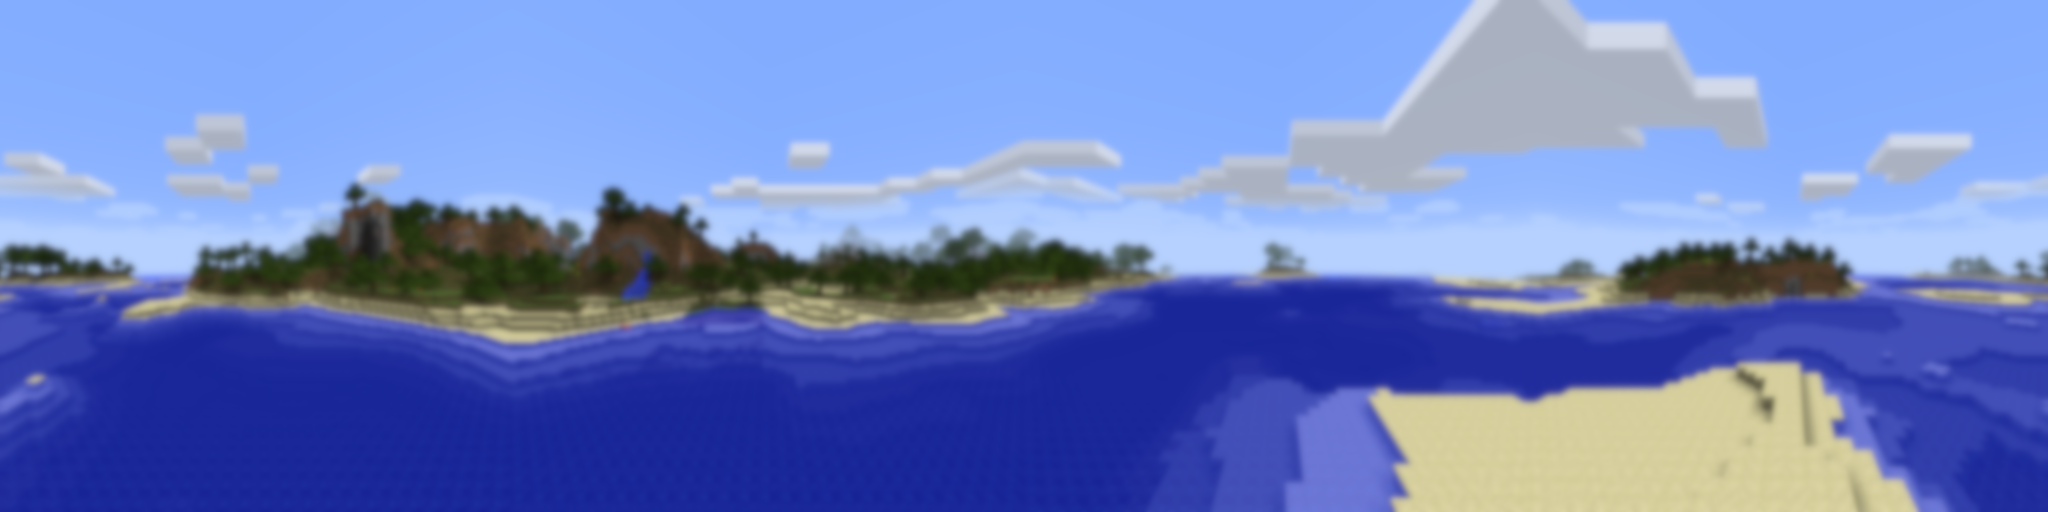
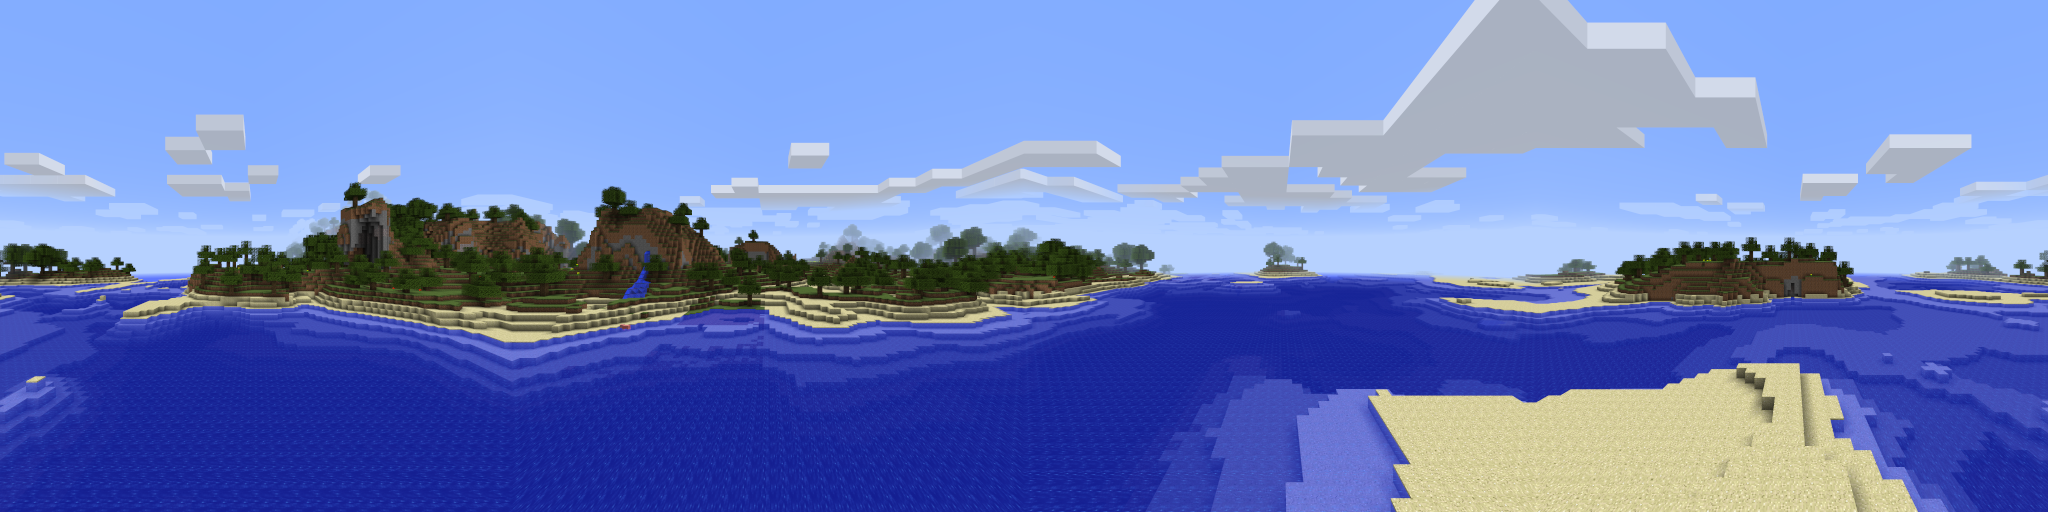
almost ready for v2.0

diff --git a/net/minecraft/client/Minecraft.java b/net/minecraft/client/Minecraft.java
@@ -373,7 +373,7 @@ public abstract class Minecraft implements Runnable {
 
 		GL11.glEnable(GL11.GL_BLEND);
 		GL11.glBlendFunc(GL11.GL_SRC_ALPHA, GL11.GL_ONE_MINUS_SRC_ALPHA);
-		GL11.glColor4f(0.2F, 0.2F, 0.2F, this.gameSettings.gamma*0.55F);
+		GL11.glColor4f(0.2F, 0.2F, 0.2F, this.gameSettings.gamma*0.5F);
 		GL11.glBindTexture(GL11.GL_TEXTURE_2D, 0);
 		Tessellator tess = Tessellator.instance;
 		tess.startDrawingQuads();
@@ -396,7 +396,7 @@ public abstract class Minecraft implements Runnable {
 		GL11.glDepthMask(false);
 		float gamma = this.gameSettings.gamma*0.6F/4F;
 
-		glBlendColor(1.0F, 1.0F, 1.0F, 1.0F);
+		glBlendColor(1.0F, 1.0F, 1.0F, 0.95F);
 		GL11.glEnable(GL11.GL_BLEND);
 		GL11.glBlendFunc(GL11.GL_DST_COLOR, GL11.GL_CONSTANT_ALPHA);
 		GL11.glColor4f(gamma, gamma, gamma, this.gameSettings.gamma);
@@ -517,7 +517,7 @@ public abstract class Minecraft implements Runnable {
 
 					Thread.yield();
 					this.gammaOverlay1();
-					for(int i = 0; i < 4; i++) {
+					for(int i = 0; i < 6; i++) {
 						this.gammaOverlay2();
 					}
 					if(Keyboard.isKeyDown(Keyboard.KEY_F7)) {

diff --git a/net/minecraft/src/GameSettings.java b/net/minecraft/src/GameSettings.java
@@ -40,7 +40,7 @@ public class GameSettings {
 	public String field_12259_z = "";
 
 	public float gamma = 1.0F;
-	public float opacity = 0.5F;
+	public float opacity = 0.6F;
 	public float offset = 0.34F;
 	public boolean watermark = false;
 	public boolean tooltipsEnabled = true;
